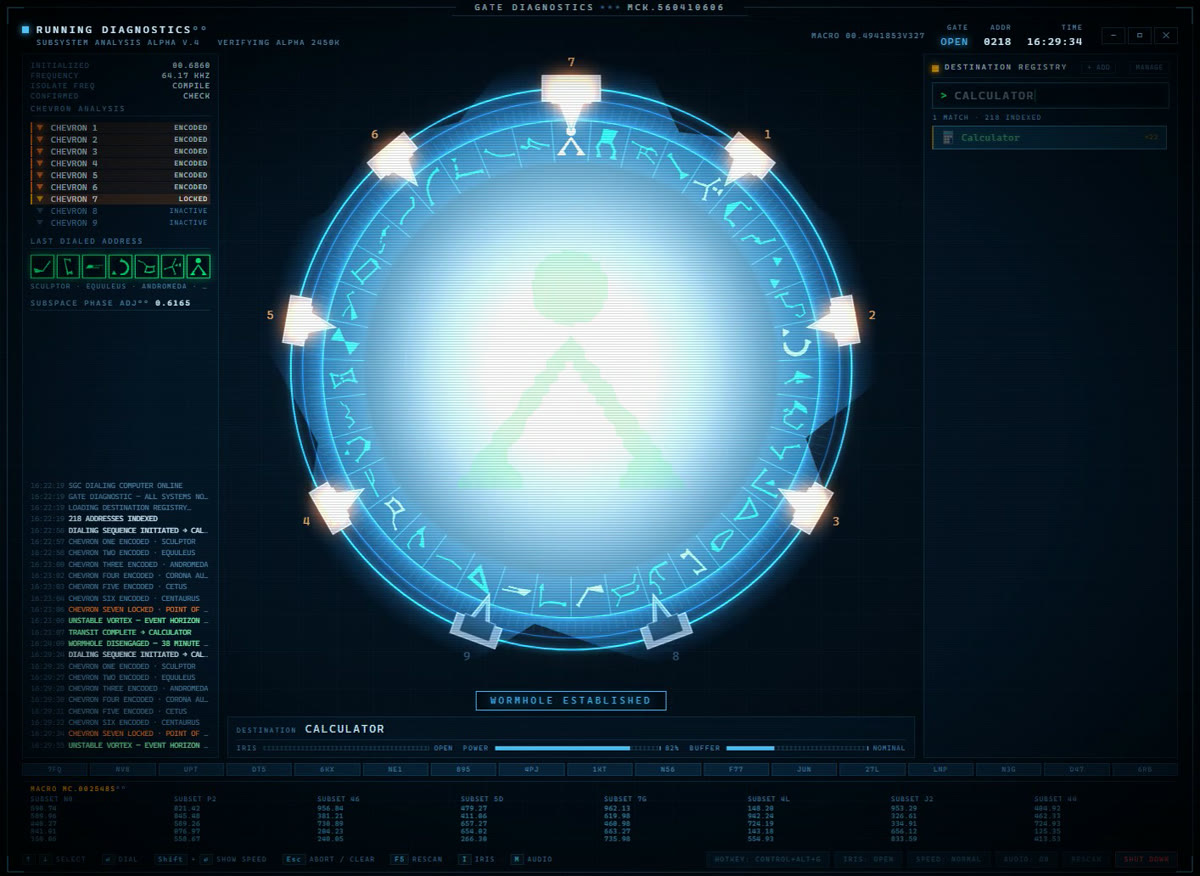
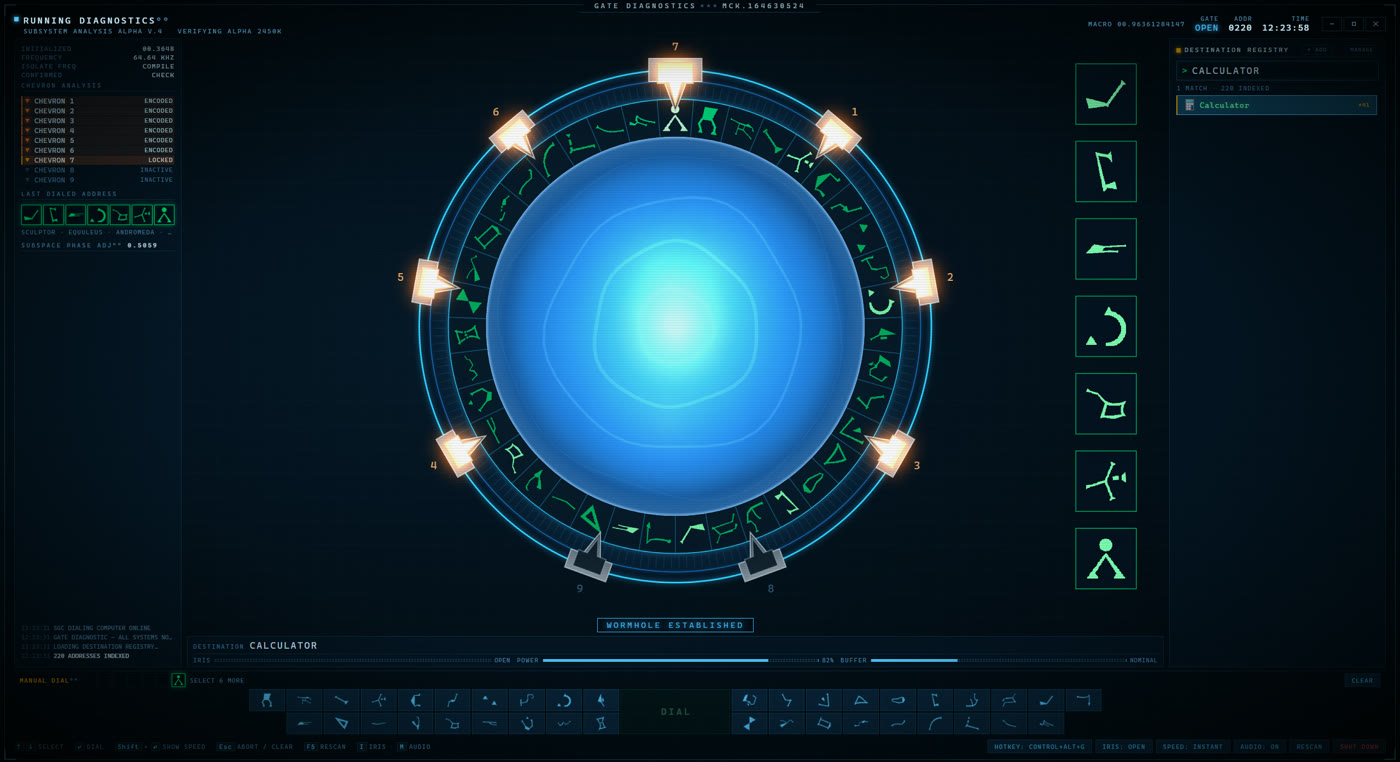
Bring the README up to 1.1 and reshoot the screenshots
The screenshots were from 18 August, before the DHD existed, before the gate
was centred and before nine chevrons. They showed the decorative telemetry
tables that the keyboard replaced, so the first thing anyone saw was a version
of the app that no longer ships.

Four current shots now: a completed dial, an address being composed on the
DHD, a nine-chevron dial to a remote machine, and the iris shut.

Three claims in the text were also wrong rather than merely dated. It called
itself Windows-only, which stopped being true when the Linux port landed. The
download section offered an installer and no AppImage. And it still described
a dead address forming a wormhole before failing, which is exactly the
behaviour that got changed because it read as a bug.

Also notes that the settings path differs on Linux and survives an upgrade,
since that has now been asked, and credits jkoehler11 for the port.

diff --git a/README.md b/README.md
@@ -1,6 +1,7 @@
 # Stargate Command
 
-An app launcher for Windows that dials your programs like the SG-1 gate.
+An app launcher for Windows and Linux that dials your programs like the SG-1
+gate.
 
 Type a program name, press Enter, and the gate dials it. The ring spins, seven
 chevrons lock one at a time, the kawoosh fires, and your program opens.
@@ -11,13 +12,23 @@ It is slower than clicking an icon. That is the point.
 
 ## Download
 
-Grab the installer from [Releases](../../releases/latest), run it, done.
-Windows 10 or 11, 64-bit. Nothing else to install.
+Both builds are on the [releases page](../../releases/latest).
 
-It is not code-signed, so Windows will show a blue "Windows protected your PC"
-box. Click **More info**, then **Run anyway**. A signing certificate costs a few
-hundred dollars a year and this is a hobby project. If you would rather not
-trust a stranger's binary, the source is right here and builds in two commands.
+**Windows:** run the installer. Windows 10 or 11, 64-bit, nothing else to
+install.
+
+**Linux:** download the AppImage, make it executable, and run it.
+
+```bash
+chmod +x Stargate-Command-*.AppImage
+./Stargate-Command-*.AppImage
+```
+
+The Windows build is not code-signed, so it will show a blue "Windows protected
+your PC" box. Click **More info**, then **Run anyway**. A signing certificate
+costs a few hundred dollars a year and this is a hobby project. If you would
+rather not trust a stranger's binary, the source is right here and builds in
+two commands.
 
 ## Using it
 
@@ -51,15 +62,27 @@ drawn by hand, so the symbols on the ring are the actual constellations.
 down the right, 4, 5, 6 back up the left, 7 at the top. Each symbol spins to
 top dead center to be grabbed, exactly as on screen.
 
-**You can dial by hand.** The row of symbols along the bottom is a DHD. Press
-six of them and hit DIAL, and whatever lives at that address opens. Get it
-wrong and the gate still dials all seven chevrons, forms the wormhole, and
-only then admits there is nothing there.
+**You can dial by hand.** The row of symbols along the bottom is a DHD: 38
+keys, one per constellation, with DIAL in the middle. Press six of them and
+hit it, and whatever lives at that address opens. Get it wrong and the gate
+still locks all seven chevrons before telling you there is nothing there.
+
+![Composing an address on the DHD](docs/screenshot-dhd.jpg)
+
+**Or set your own.** Press MANAGE, then ADDR on any entry, and choose the six
+symbols yourself. RESET puts it back to the derived one.
 
 **Remote machines get nine chevrons.** Add one with a hostname or IP and it
-dials the full nine-chevron sequence before opening Remote Desktop, because
-seven chevrons is a local address and somewhere that is not your own machine
-deserves the long dial.
+dials the full nine-chevron sequence before opening a remote desktop session,
+because seven chevrons is a local address and somewhere that is not your own
+machine deserves the long dial. Windows uses mstsc; Linux uses FreeRDP,
+Remmina or rdesktop, whichever you have.
+
+![A nine-chevron dial to a remote machine](docs/screenshot-remote.jpg)
+
+**The sounds are the real ones.** Chevron locks, the ring, the kawoosh, the
+iris, the shutdown and the DHD keys. There is a synthesized version of each
+behind them, so deleting the sound files degrades rather than breaks it.
 
 **The iris works.** It is a real leaf shutter, 22 blades, and the spiral falls
 out of the geometry rather than being drawn on.
@@ -78,8 +101,8 @@ npm run dist       # build the installer
 ```
 
 Windows and Linux both build (`npm run dist` / `npm run dist:linux`). There
-are no runtime dependencies beyond Electron itself: the glyphs, the sounds and
-the PNG decoding are all hand-rolled.
+are no runtime dependencies beyond Electron itself: the glyph tracing, the
+fallback audio and the PNG decoding are all hand-rolled.
 
 ## Worth knowing
 
@@ -88,7 +111,8 @@ pulls each program's icon. That is all it looks at.
 
 **It makes no network connections of its own.** No telemetry, no update check,
 nothing phoning home. You can verify that with a firewall, or by reading
-`electron/main.js`. Its settings live in `%APPDATA%\Stargate Command`.
+`electron/main.js`. Settings live in `%APPDATA%\Stargate Command` on Windows
+and `~/.config/Stargate Command` on Linux, and survive an upgrade.
 
 The one exception is the obvious one: a remote destination starts your system's
 Remote Desktop client, and that connects where you told it to. Nothing else
@@ -109,6 +133,8 @@ affiliated with or endorsed by the rights holders.
 
 **The MIT license covers the code only.** It is not mine to place any license
 on the Stargate material in `assets/` and `public/sfx/`, and it does not.
+
+Linux support was contributed by [@jkoehler11](https://github.com/jkoehler11).
 
 The sounds are optional as far as the program is concerned: delete
 `public/sfx/` and it falls back to the synthesized audio it shipped with
